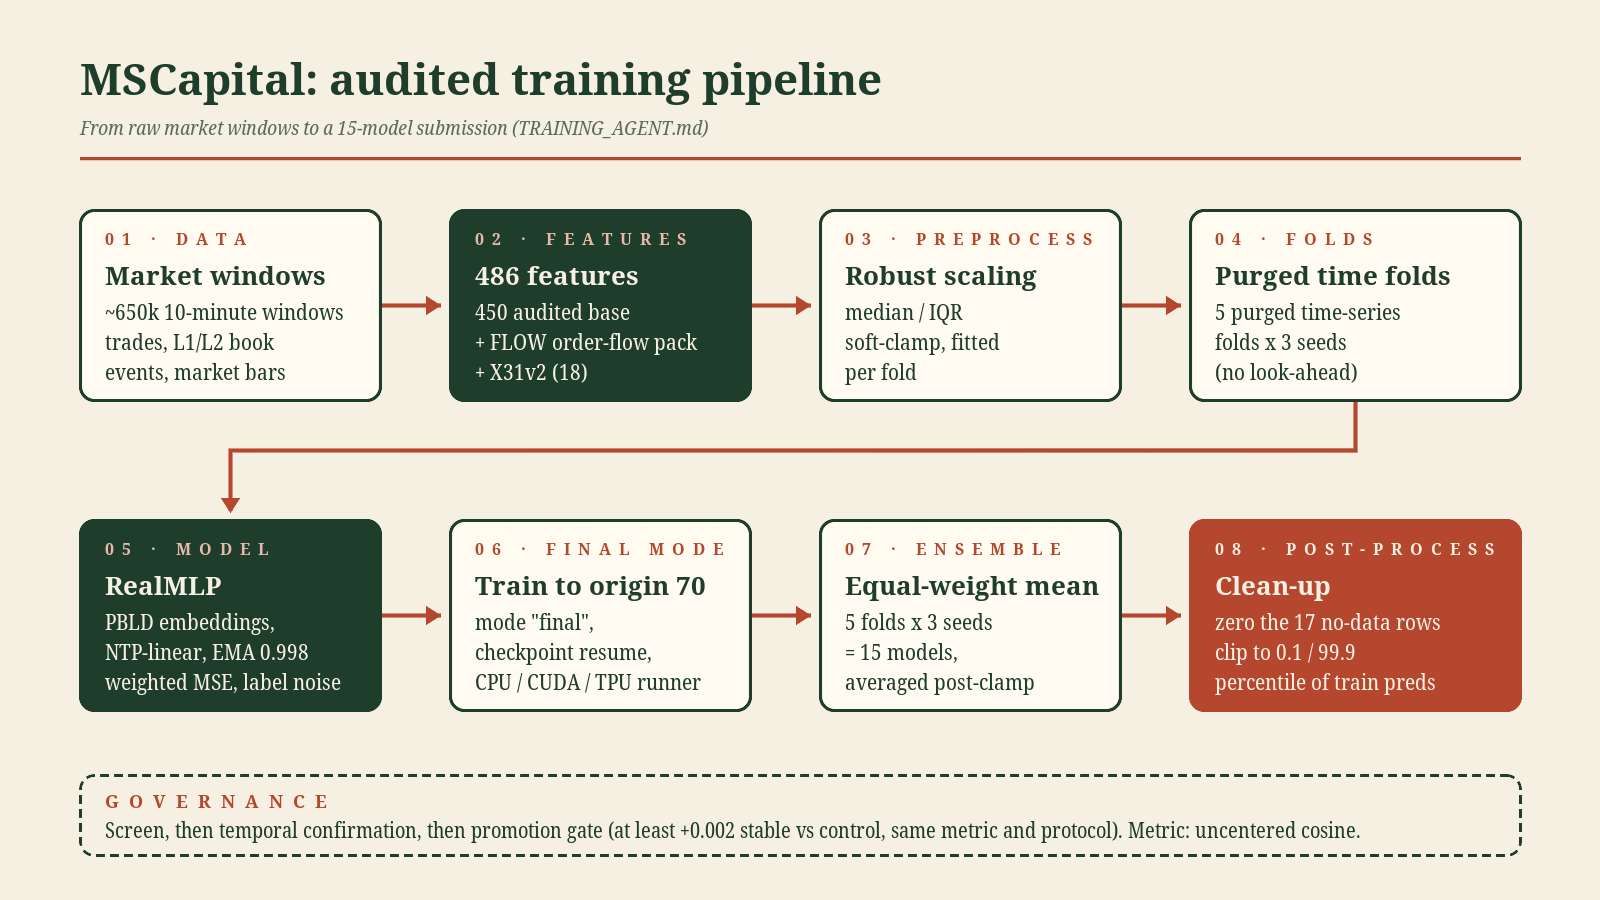
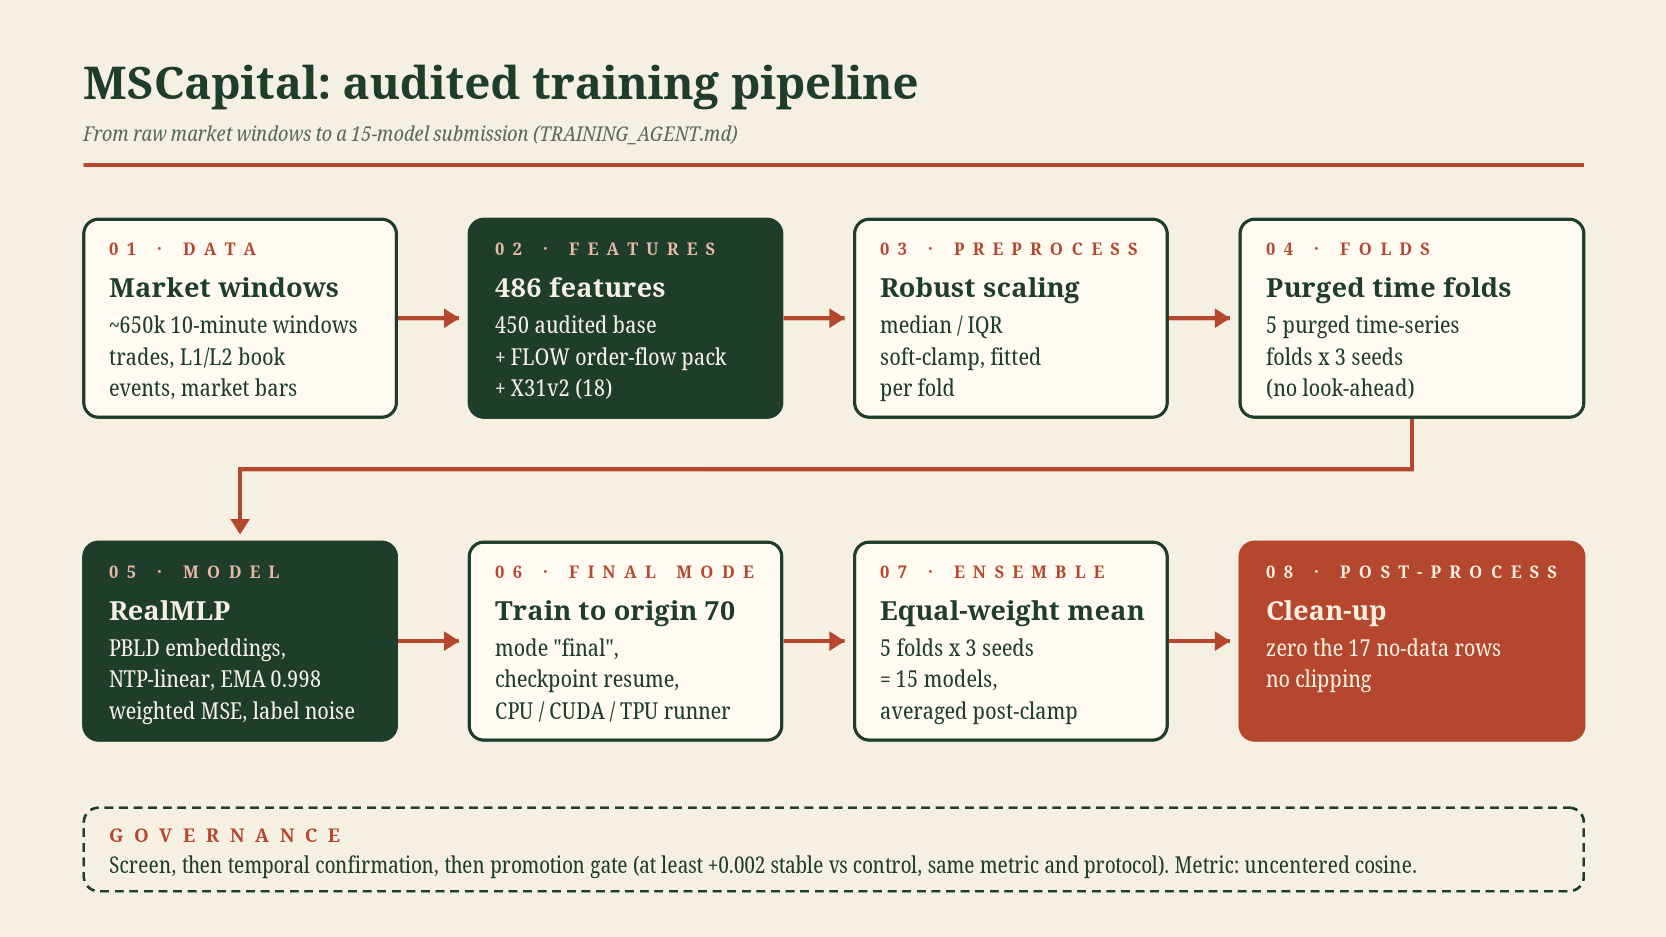
README/diagram: drop clip step, update status for owner delegation

diff --git a/README.md b/README.md
@@ -15,7 +15,7 @@ evaluation tab).
 
 ![MSCapital audited training pipeline](docs/pipeline.svg)
 
-*Audited pipeline, as implemented in [TRAINING_AGENT.md](TRAINING_AGENT.md). Reusable exports: [`docs/pipeline.svg`](docs/pipeline.svg), [`docs/pipeline.png`](docs/pipeline.png). The diagram still shows the final percentile clip; the current champion (Oct 3) skips that step, see below.*
+*Audited pipeline, as implemented in [TRAINING_AGENT.md](TRAINING_AGENT.md). Reusable exports: [`docs/pipeline.svg`](docs/pipeline.svg), [`docs/pipeline.png`](docs/pipeline.png).*
 
 **Current standing: public leaderboard 0.142** (submission 56794864, scored
 Oct 3, 2026; previous best 0.141). Leaderboard rank is not recorded here: the
@@ -137,10 +137,12 @@ Every experiment - including the dead ends - is logged with numbers in
 
 ## Status and next steps (as of Oct 6)
 
-The champion is flow31 no-clip at 0.142. Nothing is running or queued for
-submission. The deadline is Oct 9, 2026 16:00 UTC. Any new training run, a
-second final, or a final submission needs an explicit decision from the
-repository owner. The recent screens (above) found no change that clears the
+The champion is flow31 no-clip at 0.142. The deadline is Oct 9, 2026 16:00 UTC.
+Since Oct 6 the repository owner has delegated runs, compute use and
+submissions to the agent, within the competition rules and the daily cap.
+A final H1 (clean angular target) set is training on GPU for a blend with
+the flow31 final.
+The recent screens (above) found no change that clears the
 promotion gate, so the leaderboard gap to the top of the board is not expected
 to close with small recipe tweaks. Earlier Sep 28 figures for rank and the
 top-10 cut are not repeated here because they have not been re-verified.
